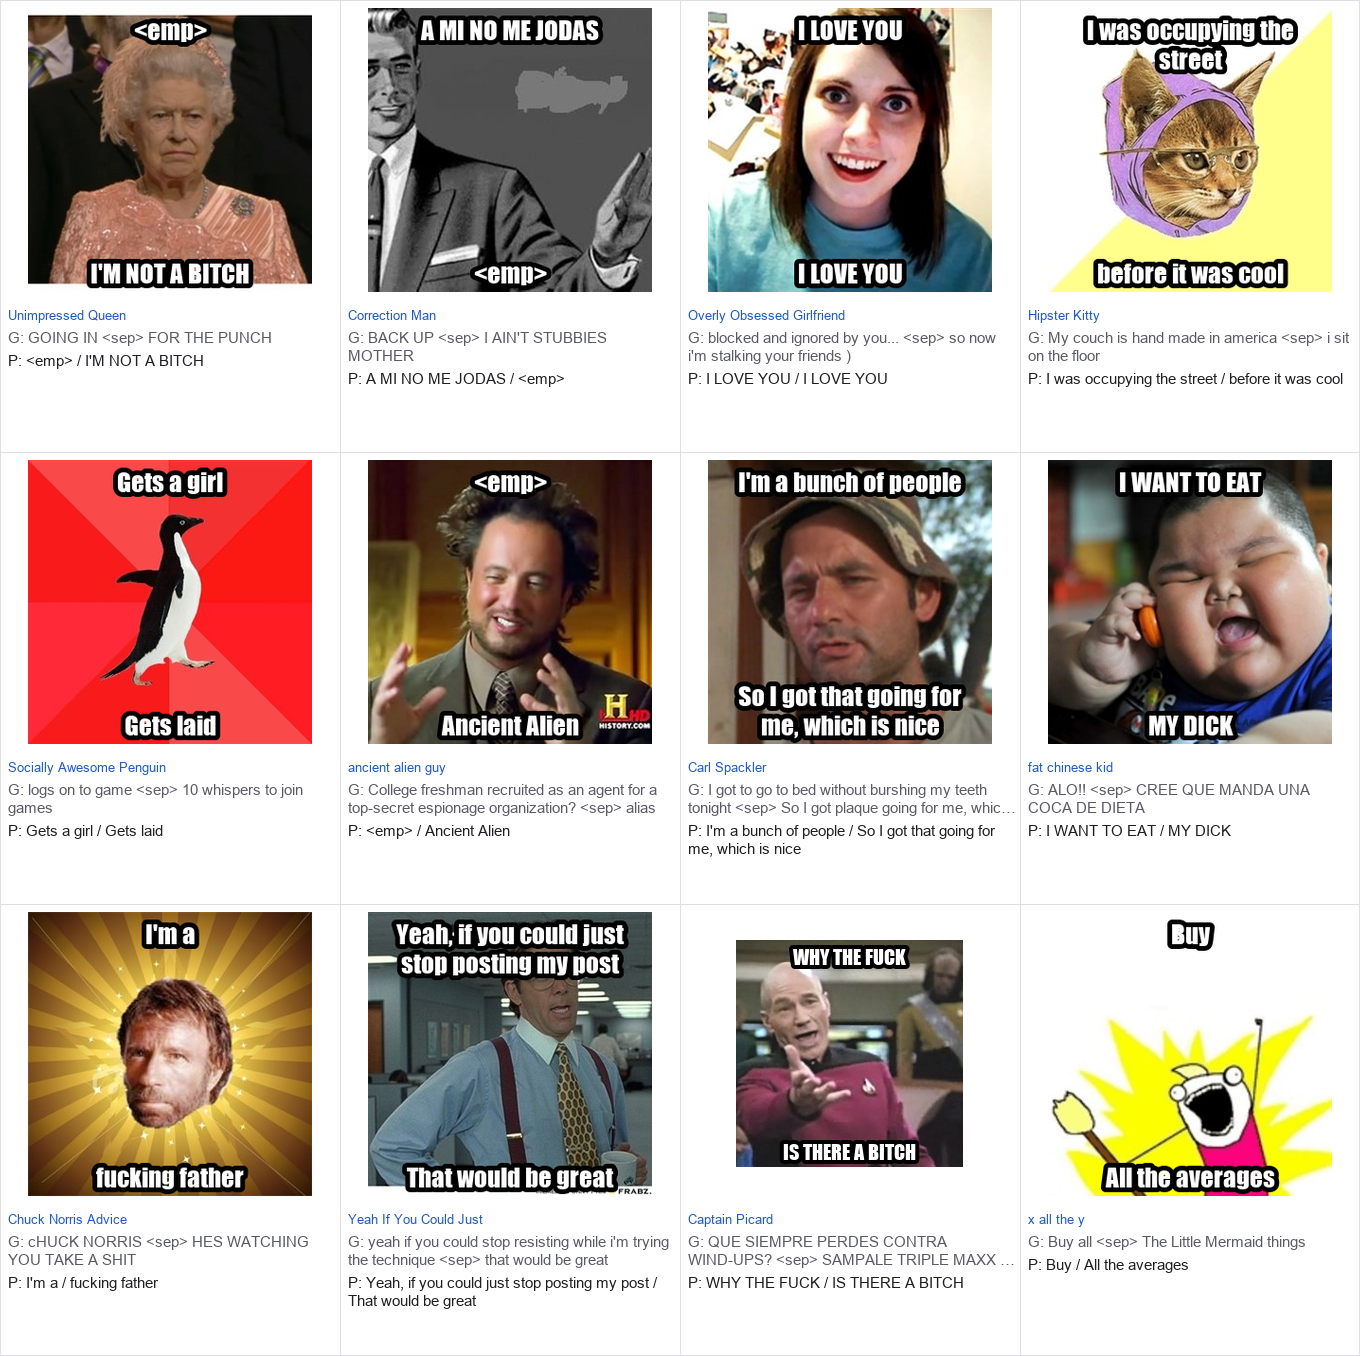
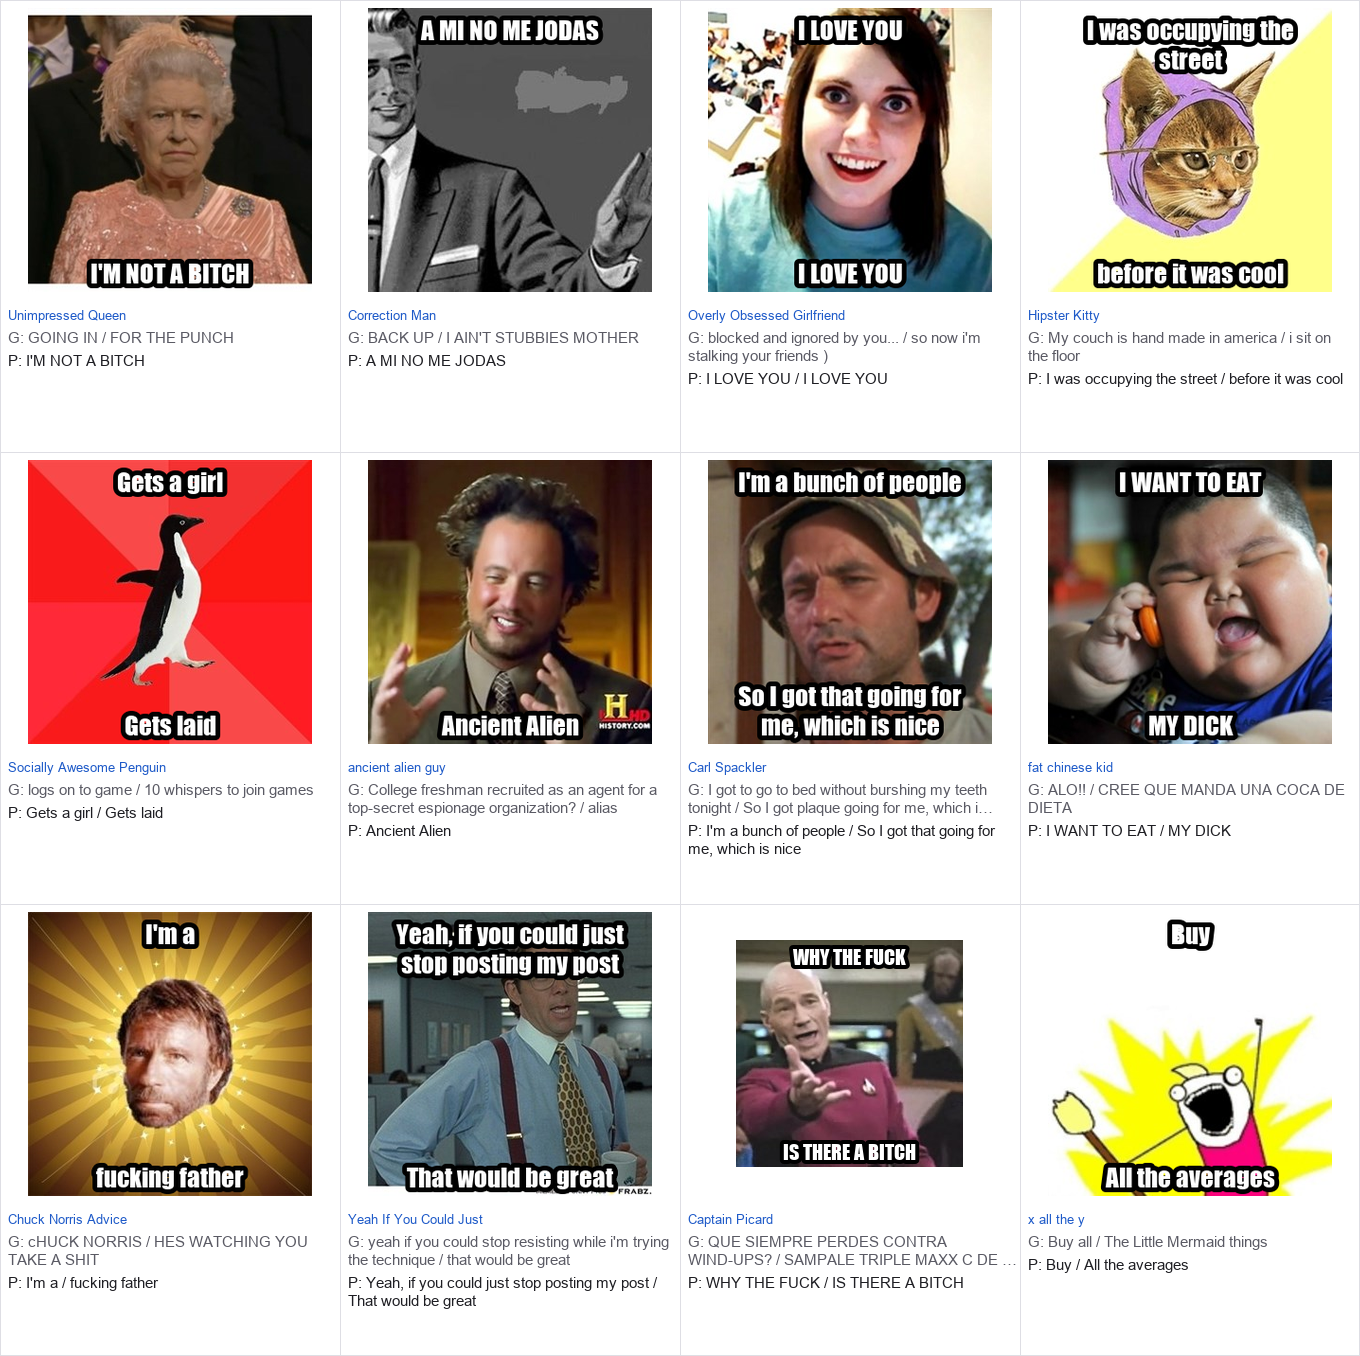
emp fix

diff --git a/showcase.py b/showcase.py
@@ -10,6 +10,7 @@ Usage:
 """
 import argparse
 import json
+import re
 from pathlib import Path
 
 from PIL import Image, ImageDraw, ImageFont
@@ -55,11 +56,16 @@ def wrap(draw, text, font, max_w, max_lines):
     return lines
 
 
+def _clean_side(text):
+    """Drop the dataset's ``<emp>`` (empty field) marker and tidy spacing."""
+    return re.sub(r"\s*<emp>\s*", " ", text).strip()
+
+
 def split_pred(pred):
     if " <sep> " in pred:
         top, bottom = pred.split(" <sep> ", 1)
-        return top, bottom
-    return pred, ""
+        return _clean_side(top), _clean_side(bottom)
+    return _clean_side(pred), ""
 
 
 def make_card(sample):
@@ -75,11 +81,15 @@ def make_card(sample):
     y = IMG_H + PAD
     d.text((PAD, y), sample["template"][:38], fill=NAME, font=fg)
     y += 21
-    for line in wrap(d, "G:  " + sample["gold"], f, inner, 2):
+    top, bottom = split_pred(sample["pred"])
+    gtop, gbottom = split_pred(sample["gold"])
+
+    gold_disp = "  /  ".join(p for p in (gtop, gbottom) if p)
+    for line in wrap(d, "G:  " + gold_disp, f, inner, 2):
         d.text((PAD, y), line, fill=GOLD, font=f)
         y += 18
     y += 5
-    pretty = sample["pred"].replace(" <sep> ", "  /  ")
+    pretty = "  /  ".join(p for p in (top, bottom) if p)
     for line in wrap(d, "P:  " + pretty, f, inner, 2):
         d.text((PAD, y), line, fill=FG, font=f)
         y += 18
